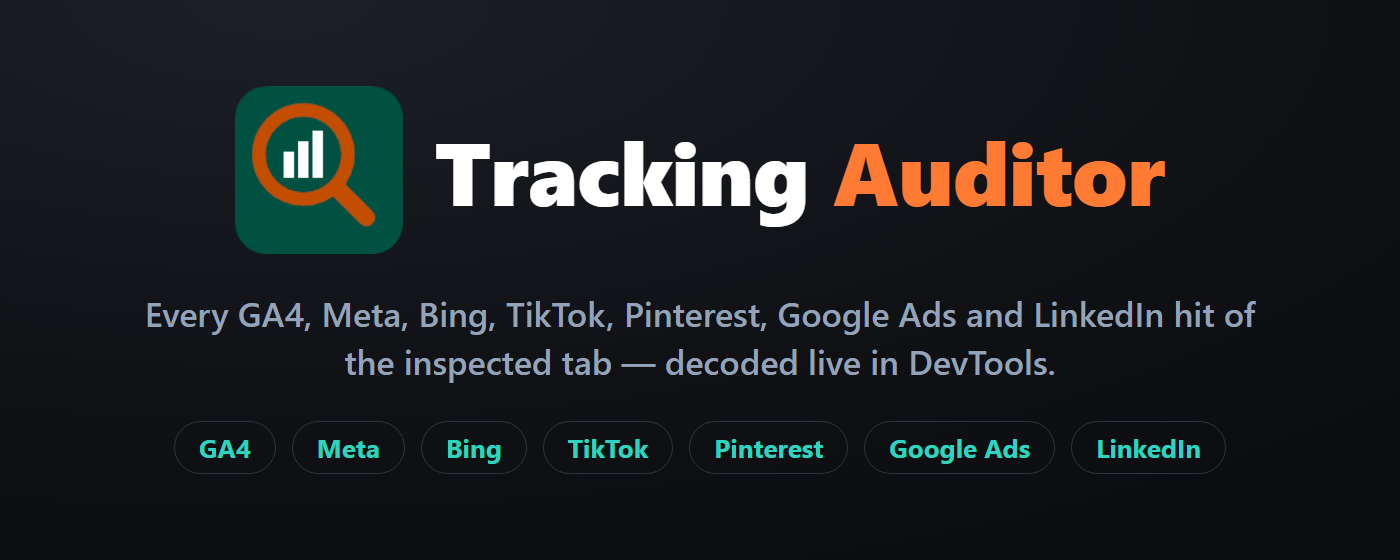
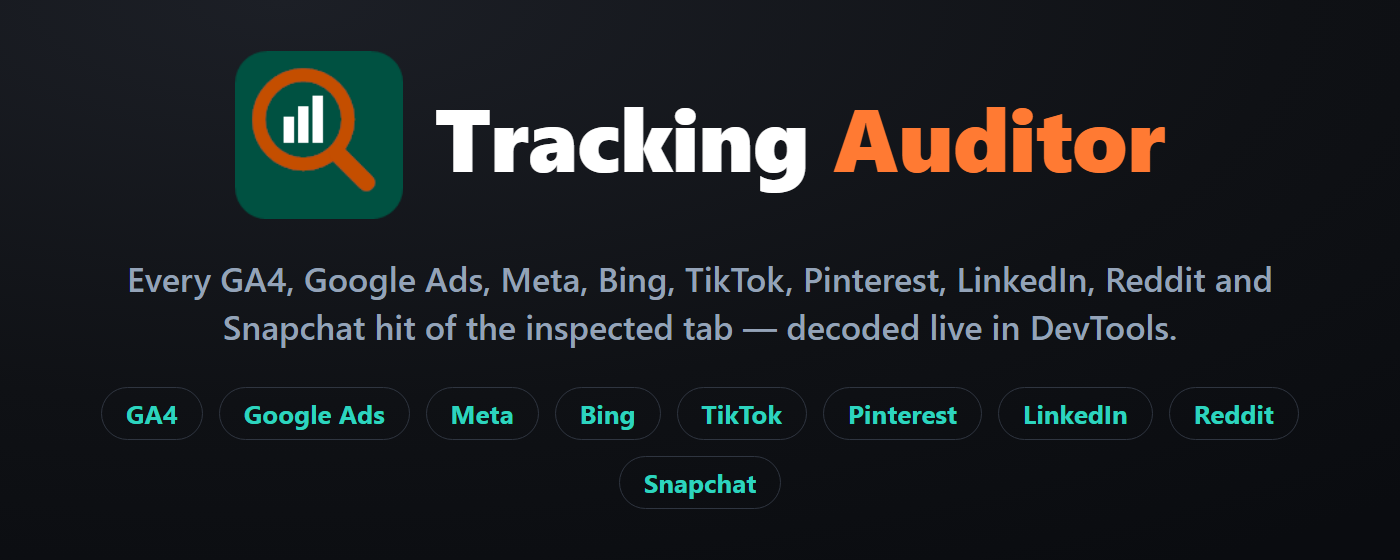
fix(webstore): promo tiles name all services in filter order
The promo tiles listed only the original seven services and put Google Ads
sixth. Add Reddit and Snapchat and align both tiles — and the panel
empty-state — with the filter order (GA4, Google Ads, Meta, Bing, TikTok,
Pinterest, LinkedIn, Reddit, Snapchat). The 440px tile drops its chip row
(nine chips overflowed under the now three-line tagline) and names the
services via the tagline alone.

No repackage needed: v0.7.1 is already uploaded; the empty-state wording
ships with the next release.

diff --git a/scripts/generate-screenshots.js b/scripts/generate-screenshots.js
@@ -91,6 +91,10 @@ async function renderPanel(context, base, colorScheme) {
 
 function promoHtml(iconDataUri, w, h) {
   const s = h / 280;   // scale type/icon to the tile height
+  // The small tile (440px) can't fit nine chips without overflowing under the
+  // three-line tagline, so it leans on the tagline alone to name the services;
+  // the marquee is wide enough for both.
+  const showChips = w >= 600;
   return `<!DOCTYPE html><html><head><meta charset="utf-8"><style>
     html,body{margin:0;height:100%;}
     .tile{width:${w}px;height:${h}px;display:flex;flex-direction:column;align-items:center;
@@ -107,8 +111,8 @@ function promoHtml(iconDataUri, w, h) {
       border-radius:${999 * s}px;padding:${4 * s}px ${12 * s}px;}
   </style></head><body><div class="tile">
     <div class="logo"><img src="${iconDataUri}"><div class="name">Tracking <b>Auditor</b></div></div>
-    <div class="tag">Every GA4, Meta, Bing, TikTok, Pinterest, Google Ads and LinkedIn hit of the inspected tab — decoded live in DevTools.</div>
-    <div class="chips"><span class="chip">GA4</span><span class="chip">Meta</span><span class="chip">Bing</span><span class="chip">TikTok</span><span class="chip">Pinterest</span><span class="chip">Google Ads</span><span class="chip">LinkedIn</span></div>
+    <div class="tag">Every GA4, Google Ads, Meta, Bing, TikTok, Pinterest, LinkedIn, Reddit and Snapchat hit of the inspected tab — decoded live in DevTools.</div>
+    ${showChips ? '<div class="chips"><span class="chip">GA4</span><span class="chip">Google Ads</span><span class="chip">Meta</span><span class="chip">Bing</span><span class="chip">TikTok</span><span class="chip">Pinterest</span><span class="chip">LinkedIn</span><span class="chip">Reddit</span><span class="chip">Snapchat</span></div>' : ''}
   </div></body></html>`;
 }
 

diff --git a/panel.html b/panel.html
@@ -216,7 +216,7 @@
       <input type="search" id="filterText" placeholder="filter by event, id (AW-…), label, parameter…" autocomplete="off">
     </div>
   </header>
-  <div id="empty" class="empty">Hit <b>Start &amp; Reload</b> — GA4, Meta, Bing, TikTok, Pinterest, Google Ads, LinkedIn, Reddit and Snapchat requests will appear here, grouped per page load.</div>
+  <div id="empty" class="empty">Hit <b>Start &amp; Reload</b> — GA4, Google Ads, Meta, Bing, TikTok, Pinterest, LinkedIn, Reddit and Snapchat requests will appear here, grouped per page load.</div>
   <div id="blocks"></div>
 
   <script type="module" src="panel.js"></script>
